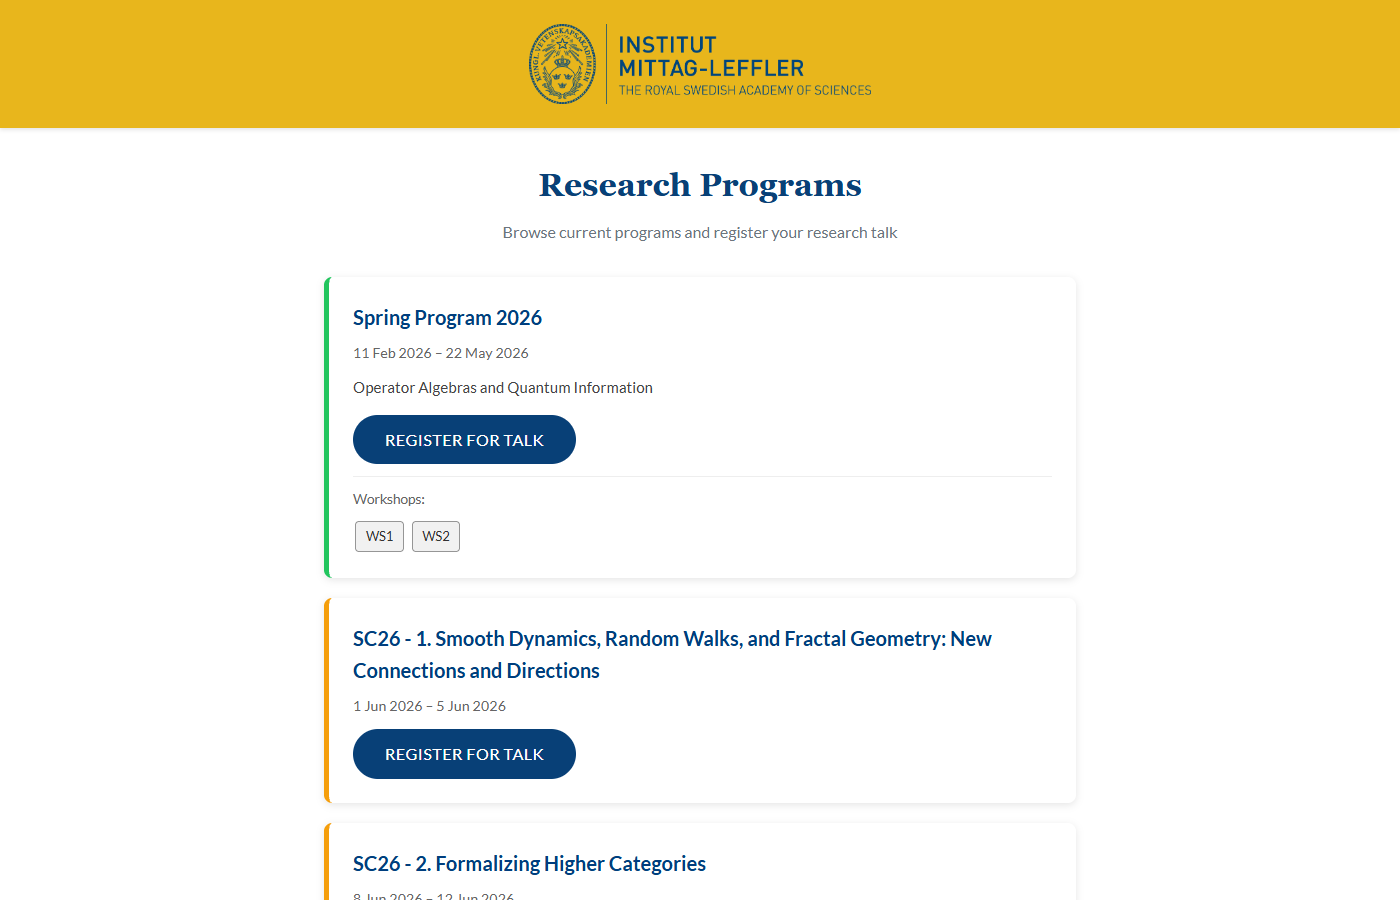
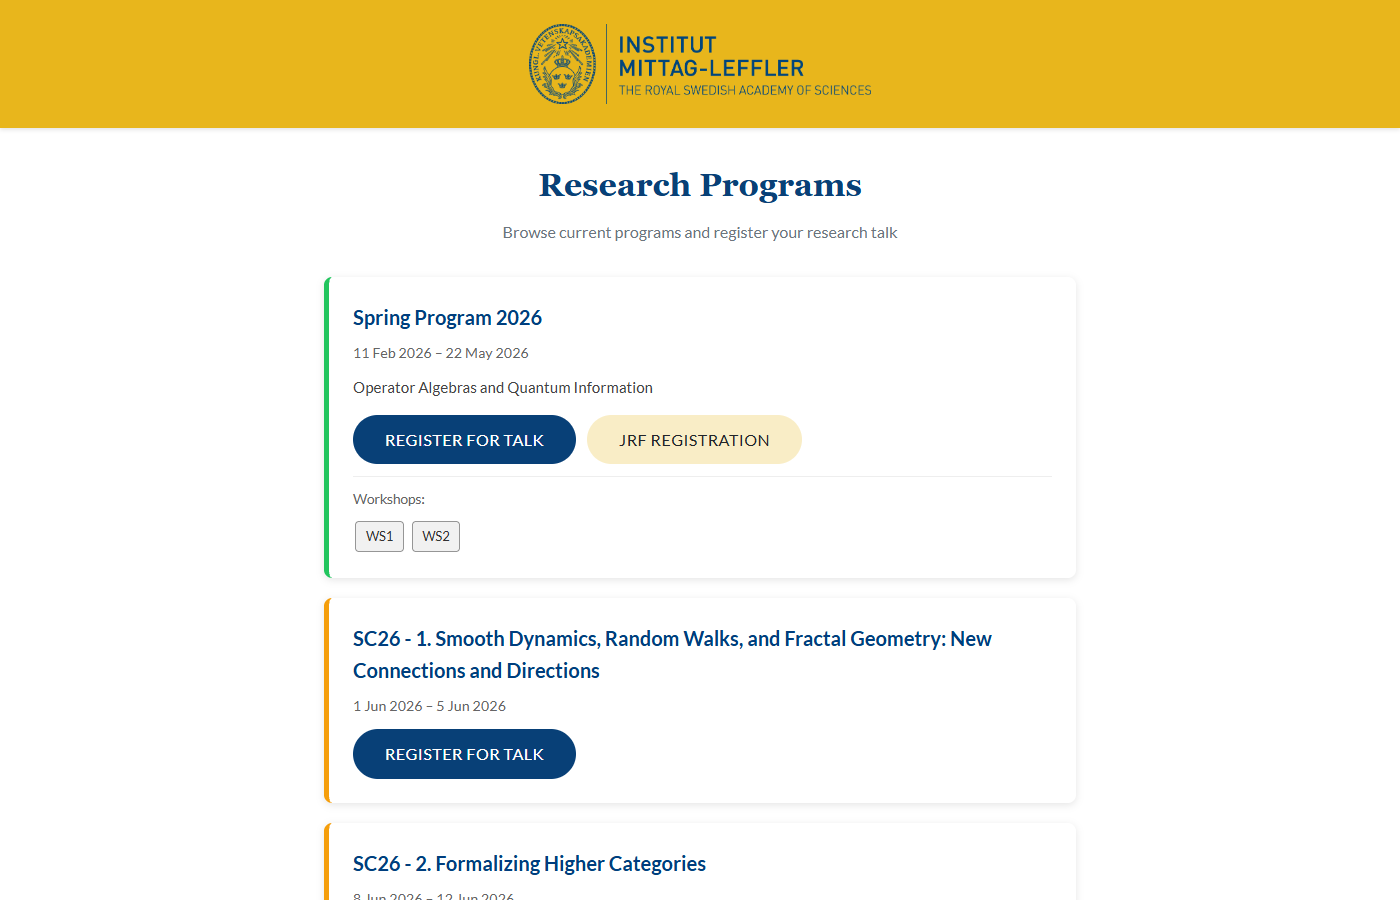
Add JRF (Junior Fellows Seminar) registration
- submission_type column on talk_submissions ('talk' default, 'jrf')
- GET/POST /p/:programId/jrf-register routes
- JRF Registration button on program listing for Fall/Spring programs
- Gold JRF badges in admin dashboard and scheduling views
- Puppeteer devDependency for manual screenshot automation

Changed region(s): [[0.3993, 0.4356, 0.5836, 0.5289]]

diff --git a/src/routes/registration.js b/src/routes/registration.js
@@ -230,6 +230,89 @@ router.get('/p/:programId/success', async (req, res) => {
   });
 });
 
+// JRF (Junior Fellows Seminar) registration form
+router.get('/p/:programId/jrf-register', async (req, res) => {
+  try {
+    const program = await db.getProgramById(req.params.programId);
+    if (!program) {
+      return res.status(404).render('error', { title: 'Not Found', message: 'Program not found' });
+    }
+    if (program.status !== 'ACTIVE' && program.status !== 'PLANNED') {
+      return res.status(400).render('error', { title: 'Registration Closed', message: 'Registration for this program is no longer available.' });
+    }
+    res.render('registration', {
+      title: `Junior Fellows Seminar - ${program.name}`,
+      errors: [],
+      formData: {},
+      program,
+      programId: req.params.programId,
+      submissionType: 'jrf'
+    });
+  } catch (error) {
+    console.error('Error loading JRF registration:', error);
+    res.status(500).render('error', { title: 'Error', message: 'Failed to load registration form' });
+  }
+});
+
+// JRF registration submission
+router.post('/p/:programId/jrf-register', talkValidationRules, async (req, res) => {
+  try {
+    const program = await db.getProgramById(req.params.programId);
+    if (!program) {
+      return res.status(404).render('error', { title: 'Not Found', message: 'Program not found' });
+    }
+
+    const errors = validationResult(req);
+    if (!errors.isEmpty()) {
+      return res.render('registration', {
+        title: `Junior Fellows Seminar - ${program.name}`,
+        errors: errors.array(),
+        formData: req.body,
+        program,
+        programId: req.params.programId,
+        submissionType: 'jrf'
+      });
+    }
+
+    const talkData = {
+      firstName: req.body.firstName,
+      lastName: req.body.lastName,
+      email: req.body.email,
+      sendCopy: req.body.sendCopy === 'on' || req.body.sendCopy === true,
+      talkTitle: req.body.talkTitle,
+      talkAbstract: req.body.talkAbstract,
+      affiliation: req.body.affiliation,
+      questions: req.body.questions || null,
+      programId: req.params.programId,
+      submissionType: 'jrf'
+    };
+
+    const talk = await Talk.create(talkData);
+
+    console.log('New JRF submission received:', {
+      id: talk.id,
+      name: talk.getFullName(),
+      email: talk.email,
+      title: talk.talkTitle,
+      programId: req.params.programId
+    });
+
+    res.redirect(`/p/${req.params.programId}/success?id=${talk.id}`);
+  } catch (error) {
+    console.error('Error submitting JRF talk:', error);
+    let program = null;
+    try { program = await db.getProgramById(req.params.programId); } catch (e) { /* ignore */ }
+    res.render('registration', {
+      title: program ? `Junior Fellows Seminar - ${program.name}` : 'Junior Fellows Seminar',
+      errors: [{ msg: 'An error occurred while submitting. Please try again.' }],
+      formData: req.body,
+      program,
+      programId: req.params.programId,
+      submissionType: 'jrf'
+    });
+  }
+});
+
 // Workshop-scoped registration form
 router.get('/p/:programId/ws/:workshopId/register', async (req, res) => {
   try {

diff --git a/src/config/database.js b/src/config/database.js
@@ -126,6 +126,9 @@ async function createTables() {
     ALTER TABLE scheduled_talks ADD COLUMN IF NOT EXISTS workshop_id VARCHAR(50) REFERENCES workshops(workshop_id);
     ALTER TABLE magic_links ADD COLUMN IF NOT EXISTS workshop_id VARCHAR(50) REFERENCES workshops(workshop_id);
 
+    -- Add submission_type column (talk = regular, jrf = Junior Fellows Seminar)
+    ALTER TABLE talk_submissions ADD COLUMN IF NOT EXISTS submission_type VARCHAR(20) DEFAULT 'talk';
+
     -- Insert default rooms if they don't exist
     INSERT INTO rooms (name, building, capacity) VALUES
       ('Kuskvillan', 'Main Campus', 50),
@@ -165,8 +168,8 @@ async function insertTalkSubmission(data) {
     // PostgreSQL
     const query = `
       INSERT INTO talk_submissions
-      (first_name, last_name, email, send_copy, talk_title, talk_abstract, affiliation, questions, program_id, workshop_id)
-      VALUES ($1, $2, $3, $4, $5, $6, $7, $8, $9, $10)
+      (first_name, last_name, email, send_copy, talk_title, talk_abstract, affiliation, questions, program_id, workshop_id, submission_type)
+      VALUES ($1, $2, $3, $4, $5, $6, $7, $8, $9, $10, $11)
       RETURNING *;
     `;
     const values = [
@@ -179,7 +182,8 @@ async function insertTalkSubmission(data) {
       data.affiliation,
       data.questions || null,
       data.programId || data.program_id || null,
-      data.workshop_id || data.workshopId || null
+      data.workshop_id || data.workshopId || null,
+      data.submission_type || 'talk'
     ];
 
     const result = await pool.query(query, values);
@@ -247,7 +251,7 @@ async function getAllScheduledTalks(programId, workshopId) {
       SELECT
         st.*,
         ts.first_name, ts.last_name, ts.email, ts.talk_title,
-        ts.talk_abstract, ts.affiliation, ts.questions,
+        ts.talk_abstract, ts.affiliation, ts.questions, ts.submission_type,
         r.name as room_name, r.building as room_building
       FROM scheduled_talks st
       LEFT JOIN talk_submissions ts ON st.submission_id = ts.id

diff --git a/src/models/Talk.js b/src/models/Talk.js
@@ -12,6 +12,7 @@ class Talk {
     this.affiliation = data.affiliation;
     this.questions = data.questions;
     this.submittedAt = data.submitted_at || data.submittedAt || new Date();
+    this.submissionType = data.submission_type || data.submissionType || 'talk';
   }
 
   // Create a new talk submission
@@ -26,7 +27,8 @@ class Talk {
       affiliation: data.affiliation,
       questions: data.questions,
       programId: data.programId || data.program_id || null,
-      workshopId: data.workshopId || data.workshop_id || null
+      workshopId: data.workshopId || data.workshop_id || null,
+      submission_type: data.submissionType || data.submission_type || 'talk'
     };
 
     const result = await db.insertTalkSubmission(submissionData);
@@ -62,7 +64,8 @@ class Talk {
       talkAbstract: this.talkAbstract,
       affiliation: this.affiliation,
       questions: this.questions,
-      submittedAt: this.submittedAt
+      submittedAt: this.submittedAt,
+      submissionType: this.submissionType
     };
   }
 
